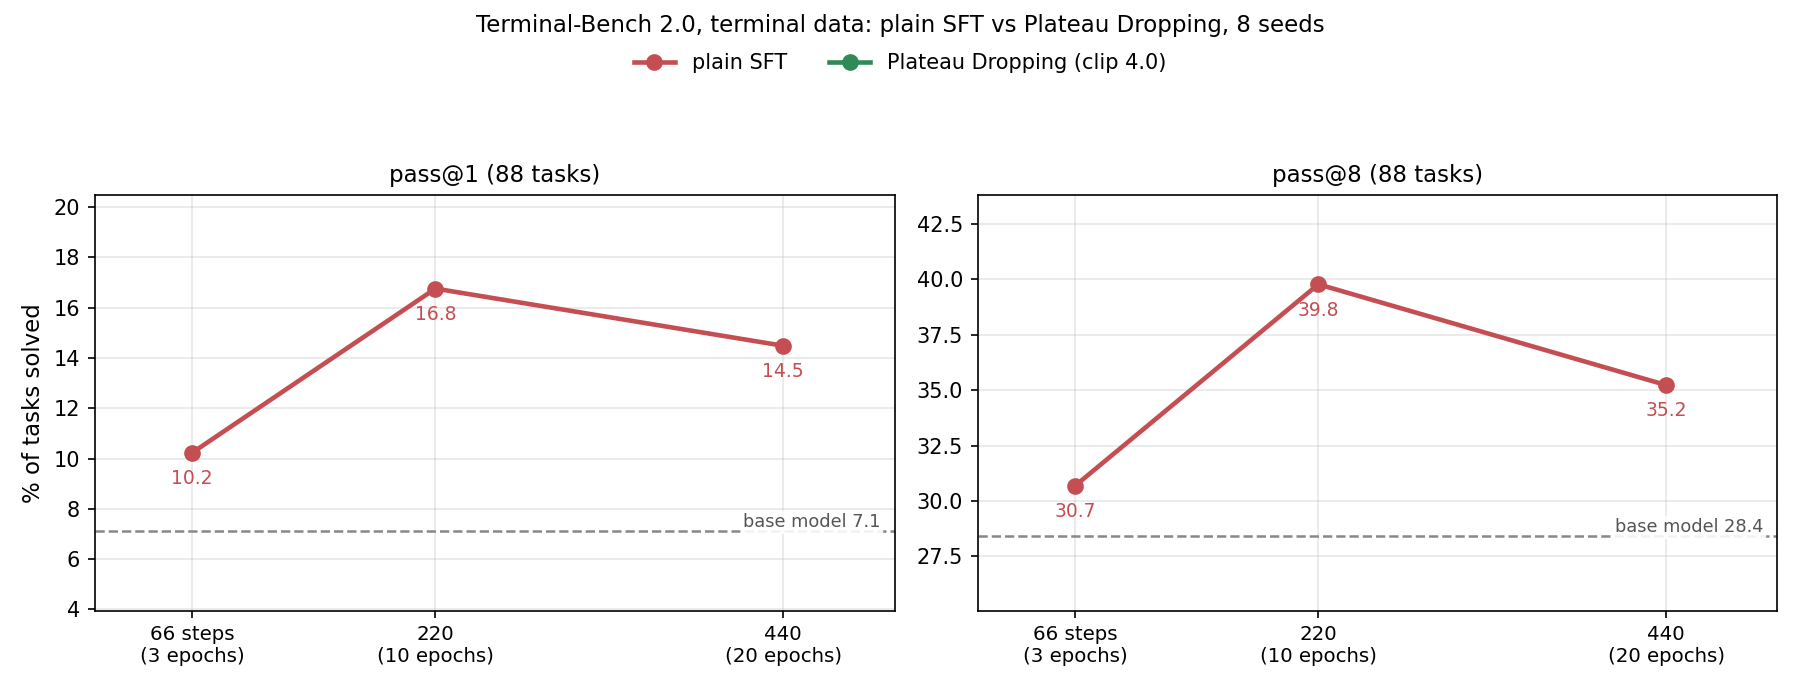
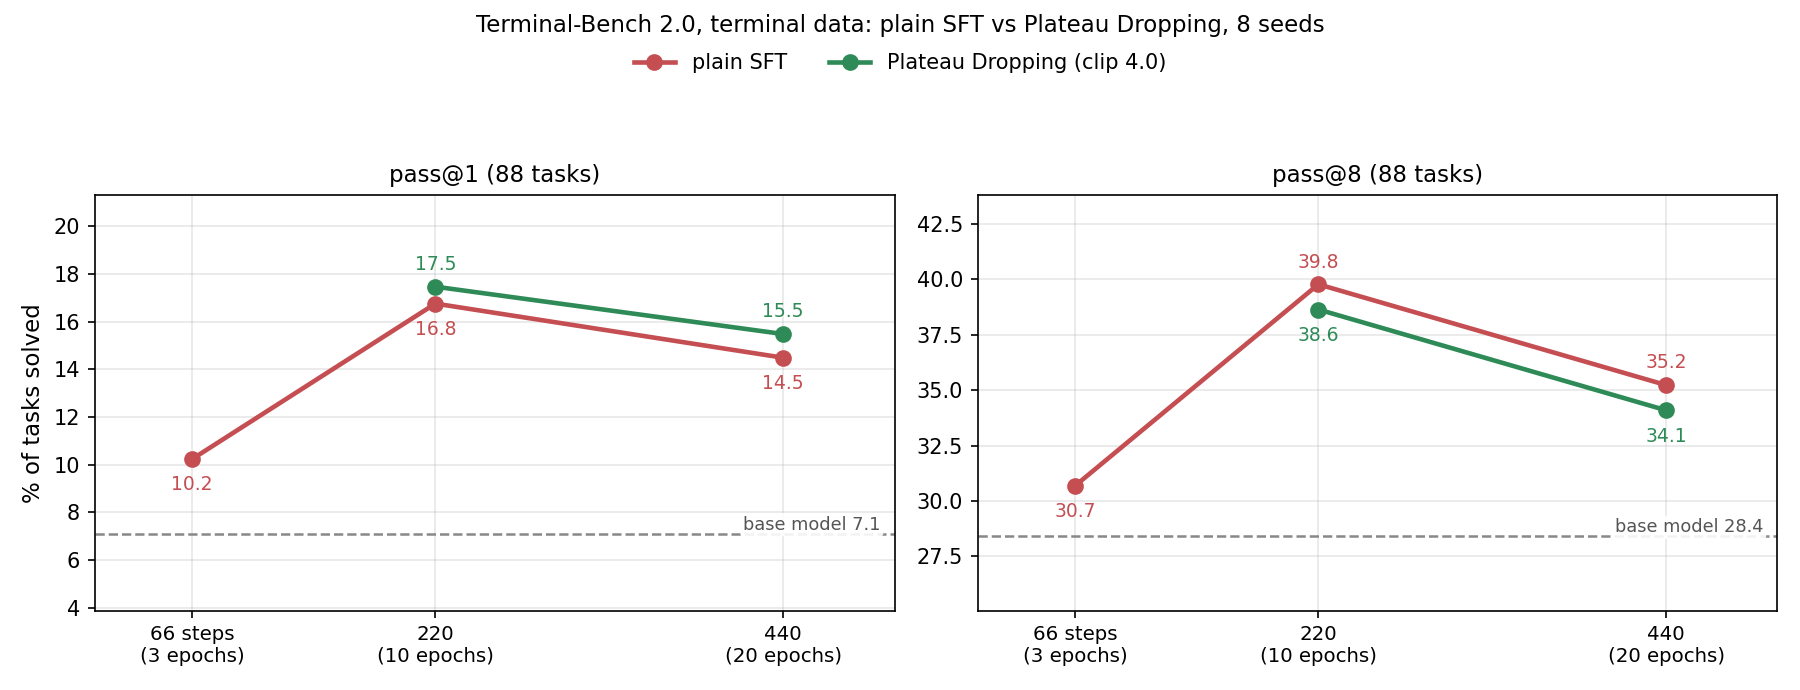
Plateau Dropping post: clip-4.0 terminal results at 220 and 440 steps
Claude-Session: https://claude.ai/code/session_018Ea4K6tyj913yCS93WC7Xj

diff --git a/_posts/2026-10-20-plateau-dropping.md b/_posts/2026-10-20-plateau-dropping.md
@@ -142,7 +142,7 @@ Figure 2. SWE-bench Verified (random 100 tasks), pass@1 and pass@8 (%) against t
 |---|---|---|---|
 | none | base model | 19.2 | 46.0 |
 | 3 epochs (228 steps) | + SFT | 23.4 | 58.0 |
-| 3 epochs (228 steps) | + Plateau Dropping | [clip-4.0 run in progress] | [clip-4.0 run in progress] |
+| 3 epochs (228 steps) | + Plateau Dropping | [pending] | [pending] |
 | 3 epochs (228 steps), LR 3e-4 | + SFT | 32.5 | 66.0 |
 | 3 epochs (228 steps), LR 3e-4 | + Plateau Dropping | **37.6** | **72.0** |
 | 10 epochs (760 steps) | + SFT | 42.2 | 70.0 |
@@ -164,12 +164,12 @@ The runs above use a learning rate of 1e-4, which turns out to be low for a 228-
 
 ![Figure 3](/assets/img/blog/plateau-dropping/fig3_tb2_corrected.png)
 
-Figure 3. Terminal-Bench 2.0, pass@1 and pass@8 (%) against training length (66, 220 and 440 steps) for plain SFT (red) and Plateau Dropping (green), averaged over 8 seeds; dashed: the base model. All 88 tasks (Section 2.4). The Plateau Dropping runs are being redone at clip 4.0 and appear when their evaluations finish.
+Figure 3. Terminal-Bench 2.0, pass@1 and pass@8 (%) against training length (66, 220 and 440 steps) for plain SFT (red) and Plateau Dropping (green), averaged over 8 seeds; dashed: the base model. All 88 tasks (Section 2.4). Plateau Dropping runs are at gradient clip 4.0; its 66-step point at that clip is pending.
 {: .caption}
 
 ![Figure 4](/assets/img/blog/plateau-dropping/fig4_tblite_corrected.png)
 
-Figure 4. TB-Lite, pass@1 and pass@8 (%) against training length (66, 220 and 440 steps) for plain SFT (red) and Plateau Dropping (green), averaged over 8 seeds; dashed: the base model. All 97 tasks (Section 2.4). The Plateau Dropping runs are being redone at clip 4.0 and appear when their evaluations finish.
+Figure 4. TB-Lite, pass@1 and pass@8 (%) against training length (66, 220 and 440 steps) for plain SFT (red) and Plateau Dropping (green), averaged over 8 seeds; dashed: the base model. All 97 tasks (Section 2.4). Plateau Dropping runs are at gradient clip 4.0; its 66-step point at that clip is pending.
 {: .caption}
 
 **Table 2.** TB-Lite, pass@1 and pass@8 in %, 8 seeds, all 97 tasks (Section 2.4).
@@ -178,11 +178,11 @@ Figure 4. TB-Lite, pass@1 and pass@8 (%) against training length (66, 220 and 44
 |---|---|---|---|
 | none | base model | 16.6 | 50.5 |
 | 3 epochs (66 steps) | + SFT | 27.2 | 67.0 |
-| 3 epochs (66 steps) | + Plateau Dropping | [clip-4.0 run in progress] | [clip-4.0 run in progress] |
+| 3 epochs (66 steps) | + Plateau Dropping | [pending] | [pending] |
 | 10 epochs (220 steps) | + SFT | 33.9 | 64.9 |
-| 10 epochs (220 steps) | + Plateau Dropping | [clip-4.0 run in progress] | [clip-4.0 run in progress] |
-| 20 epochs (440 steps) | + SFT | 33.2 | 68.0 |
-| 20 epochs (440 steps) | + Plateau Dropping | [clip-4.0 run in progress] | [clip-4.0 run in progress] |
+| 10 epochs (220 steps) | + Plateau Dropping | **36.1** | **68.0** |
+| 20 epochs (440 steps) | + SFT | **33.2** | 68.0 |
+| 20 epochs (440 steps) | + Plateau Dropping | 32.0 | **69.1** |
 
 **Table 3.** Terminal-Bench 2.0, pass@1 and pass@8 in %, 8 seeds, all 88 tasks (Section 2.4).
 
@@ -190,13 +190,13 @@ Figure 4. TB-Lite, pass@1 and pass@8 (%) against training length (66, 220 and 44
 |---|---|---|---|
 | none | base model | 7.1 | 28.4 |
 | 3 epochs (66 steps) | + SFT | 10.2 | 30.7 |
-| 3 epochs (66 steps) | + Plateau Dropping | [clip-4.0 run in progress] | [clip-4.0 run in progress] |
-| 10 epochs (220 steps) | + SFT | 16.8 | 39.8 |
-| 10 epochs (220 steps) | + Plateau Dropping | [clip-4.0 run in progress] | [clip-4.0 run in progress] |
-| 20 epochs (440 steps) | + SFT | 14.5 | 35.2 |
-| 20 epochs (440 steps) | + Plateau Dropping | [clip-4.0 run in progress] | [clip-4.0 run in progress] |
+| 3 epochs (66 steps) | + Plateau Dropping | [pending] | [pending] |
+| 10 epochs (220 steps) | + SFT | 16.8 | **39.8** |
+| 10 epochs (220 steps) | + Plateau Dropping | **17.5** | 38.6 |
+| 20 epochs (440 steps) | + SFT | 14.5 | **35.2** |
+| 20 epochs (440 steps) | + Plateau Dropping | **15.5** | 34.1 |
 
-On the terminal data plain SFT peaks at 220 steps on both benchmarks (TB-Lite 33.9% pass@1, Terminal-Bench 2.0 16.8%) and slips by 440 steps (33.2% and 14.5%), with pass@8 between 64.9 and 68.0% on TB-Lite and between 35.2 and 39.8% on Terminal-Bench 2.0. The Plateau Dropping runs at the method's clip setting are being evaluated and appear in the figures and tables when they finish.
+On the terminal data plain SFT peaks at 220 steps on both benchmarks (TB-Lite 33.9% pass@1, Terminal-Bench 2.0 16.8%) and slips by 440 steps (33.2% and 14.5%), with pass@8 between 64.9 and 68.0% on TB-Lite and between 35.2 and 39.8% on Terminal-Bench 2.0. At 220 steps Plateau Dropping is ahead on TB-Lite (36.1% against 33.9% pass@1, +2.2 ± 1.5 paired over tasks; 68.0% against 64.9% pass@8, +3.1 ± 3.0) and level on Terminal-Bench 2.0 (17.5% against 16.8% pass@1, +0.7 ± 1.3; 38.6% against 39.8% pass@8). At 440 steps the two are level on both benchmarks (pass@1 32.0% against 33.2% on TB-Lite and 15.5% against 14.5% on Terminal-Bench 2.0; pass@8 within 1.1 points). The gains on the terminal data are smaller than on the SWE data, and none is larger than two standard errors. The 66-step Plateau Dropping point at the method's clip setting is pending.
 
 ### 3.5 Baselines: TailSFT
 
@@ -231,7 +231,7 @@ The same 10-epoch pair is being trained from a stronger starting checkpoint (the
 
 ## 5. Conclusion
 
-Plateau Dropping is a small change to standard SFT: the trainer remembers each token's loss from its last two visits, and once that loss stops changing, the token is removed from the training loss until it changes again. On long-horizon agentic data it gives a better checkpoint from the same data and compute. At 10 nominal epochs on the SWE data it is 6.5 points above plain SFT at pass@1 and 8.0 at pass@8 (48.8% against 42.2%, 78.0% against 70.0%), with a training loss that looks the same, and the gain is largest at pass@8. The pass@1 lead holds at 20 epochs (+4.1), while the pass@8 lead is gone by then (Section 3.2), and at three times the learning rate the 3-epoch lead holds (+5.1 at pass@1, +6.0 at pass@8; Section 3.3). On the terminal benchmarks the comparison is being completed (Section 3.4). Sequence-level filtering of the same data (TailSFT) does not help (Section 3.5). The cells marked in progress are runs being completed at the method's clip setting and will fill in over the coming days, together with the pair from a stronger starting checkpoint (Section 3.6).
+Plateau Dropping is a small change to standard SFT: the trainer remembers each token's loss from its last two visits, and once that loss stops changing, the token is removed from the training loss until it changes again. On long-horizon agentic data it gives a better checkpoint from the same data and compute. At 10 nominal epochs on the SWE data it is 6.5 points above plain SFT at pass@1 and 8.0 at pass@8 (48.8% against 42.2%, 78.0% against 70.0%), with a training loss that looks the same, and the gain is largest at pass@8. The pass@1 lead holds at 20 epochs (+4.1), while the pass@8 lead is gone by then (Section 3.2), and at three times the learning rate the 3-epoch lead holds (+5.1 at pass@1, +6.0 at pass@8; Section 3.3). On the terminal benchmarks the gains are smaller: about 2 points at 220 steps on TB-Lite and none to speak of on Terminal-Bench 2.0 or at 440 steps (Section 3.4). Sequence-level filtering of the same data (TailSFT) does not help (Section 3.5). The cells marked in progress are runs being completed at the method's clip setting and will fill in over the coming days, together with the pair from a stronger starting checkpoint (Section 3.6).
 
 ## Appendix A: training bugs we found along the way
 
